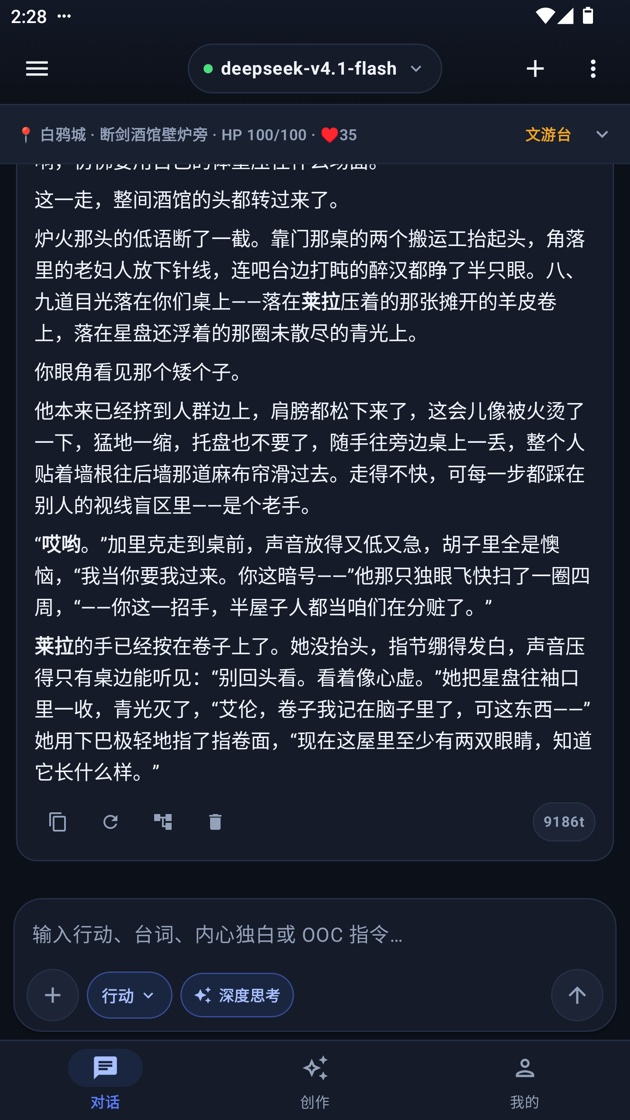
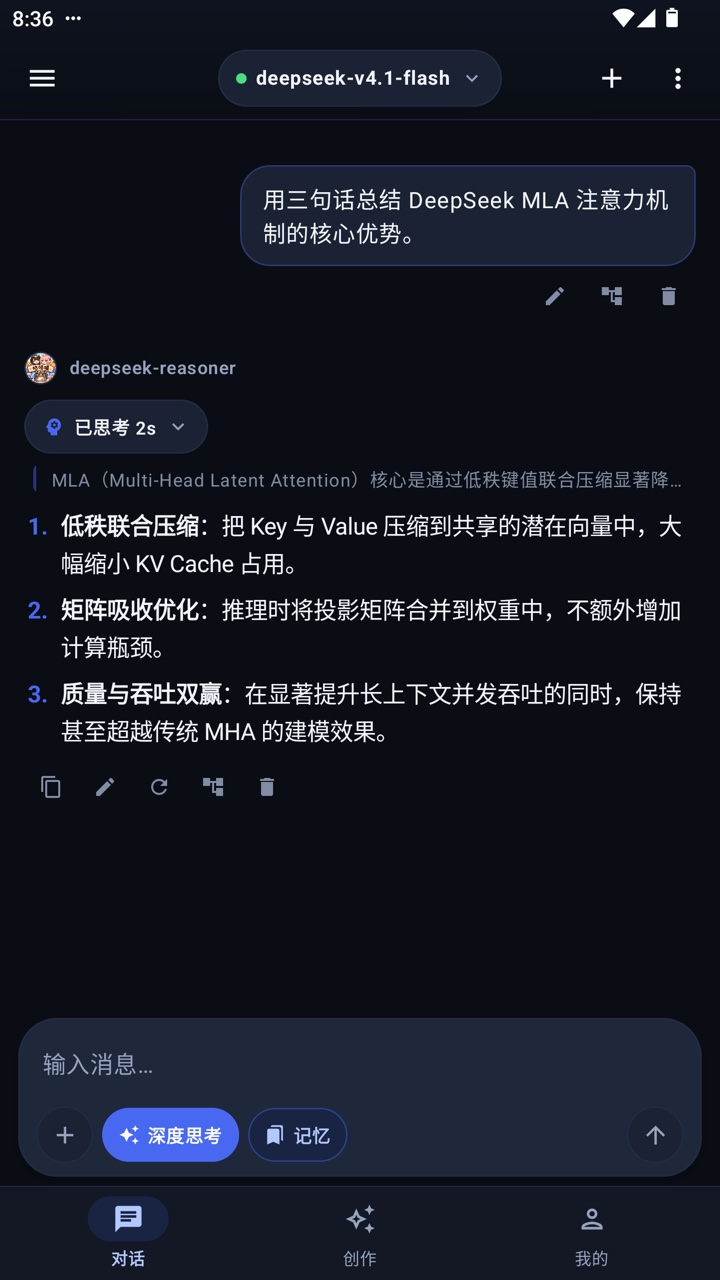
release: v0.3 - RP 3.0 SillyTavern/Chengguang upgrade, full-app fusion UI redesign & updated README screenshots

diff --git a/README.md b/README.md
@@ -11,30 +11,44 @@
 <table>
   <tr>
     <td align="center" width="33%">
-      <img src="docs/screenshots/chat_dark.jpg" width="240" alt="对话与文游主界面（暗色）" /><br />
-      <sub><b>对话 / 互动文游（暗色）</b></sub>
+      <img src="docs/screenshots/chat_dark.jpg" width="240" alt="DeepSeek 风格极简对话流与 R1 思考链" /><br />
+      <sub><b>极简对话流 · R1 深度思考链</b></sub>
     </td>
     <td align="center" width="33%">
-      <img src="docs/screenshots/rp_studio.jpg" width="240" alt="文游台与 RPG 数值面板" /><br />
-      <sub><b>文游台 · RPG 数值背包</b></sub>
+      <img src="docs/screenshots/rp_wizard.jpg" width="240" alt="酒馆封面卡横向轮播开局大厅" /><br />
+      <sub><b>酒馆封面卡大厅 · 多开场预览</b></sub>
     </td>
     <td align="center" width="33%">
-      <img src="docs/screenshots/external_import.jpg" width="240" alt="多平台外部对话与剧本导入" /><br />
-      <sub><b>多平台外部对话 / 剧本导入</b></sub>
+      <img src="docs/screenshots/rp_theater.jpg" width="240" alt="橙光双人立绘大舞台与深宫 HTML 状态栏" /><br />
+      <sub><b>橙光双人立绘剧场 · HTML 状态栏</b></sub>
     </td>
   </tr>
   <tr>
     <td align="center" width="33%">
-      <img src="docs/screenshots/studio_inspire.jpg" width="240" alt="创作工坊灵感广场" /><br />
-      <sub><b>创作工坊 · 灵感画廊</b></sub>
+      <img src="docs/screenshots/rp_frontend_romance.jpg" width="240" alt="前端美化换肤：心动恋爱手账与极简无框" /><br />
+      <sub><b>前端美化 · 恋爱手账 & 极简无框</b></sub>
     </td>
     <td align="center" width="33%">
-      <img src="docs/screenshots/image_create.jpg" width="240" alt="在线生图与 NovelAI 参数" /><br />
+      <img src="docs/screenshots/rp_regex_card.jpg" width="240" alt="酒馆正则脚本：消息内嵌 HTML 状态卡片" /><br />
+      <sub><b>酒馆正则 · 内嵌 HTML 状态卡</b></sub>
+    </td>
+    <td align="center" width="33%">
+      <img src="docs/screenshots/rp_studio_frontend.jpg" width="240" alt="6 标签文游台前端美化 5 套皮肤可视化编辑" /><br />
+      <sub><b>文游台 · 5 套皮肤可视化编辑</b></sub>
+    </td>
+  </tr>
+  <tr>
+    <td align="center" width="33%">
+      <img src="docs/screenshots/studio_tools.jpg" width="240" alt="创作工坊工具台与工作流" /><br />
+      <sub><b>创作工坊 · 工具台与工作流</b></sub>
+    </td>
+    <td align="center" width="33%">
+      <img src="docs/screenshots/image_create.jpg" width="240" alt="在线生图与 NovelAI 参数精调" /><br />
       <sub><b>在线生图 · NovelAI 工坊</b></sub>
     </td>
     <td align="center" width="33%">
-      <img src="docs/screenshots/light_mode.jpg" width="240" alt="浅色模式自适应界面" /><br />
-      <sub><b>浅色主题自适应</b></sub>
+      <img src="docs/screenshots/light_mode.jpg" width="240" alt="浅色瓷白主题自适应界面" /><br />
+      <sub><b>浅色瓷白主题自适应</b></sub>
     </td>
   </tr>
 </table>
@@ -48,18 +62,25 @@
 - **OpenAI Responses**（`/v1/responses`，支持推理摘要与用量流式事件）
 - **Anthropic Claude Messages**（`/v1/messages`，支持 Extended Thinking 思考块与多模态识图）
 - **Google Gemini Native**（`/v1beta/models/*:streamGenerateContent?alt=sse`、Imagen 与原生生图）
-- **双接入模式**：支持咕咕嘎服务端账号登录（含 2FA、内嵌人机验证与 WebView 登录）或直接在登录页进入「自定义 API 直连」，也可在 **我的 → API 接口管理** 中管理多个自定义接口并与服务端分组自由混用；API Key 使用 `EncryptedSharedPreferences` 本地加密存储。
+- **双接入模式**：支持咕咕嘎服务端账号登录（含 2FA、内嵌人机验证与 WebView 登录）或直接在登录页进入「自定义 API 直连」，也可在 **我的 → 自定义 API 通道** 中管理多个自定义接口并与服务端分组自由混用；API Key 使用 `EncryptedSharedPreferences` 本地加密存储。
 
-### 2. 对话、文游（RP）与小说三合一创作空间
-- **流畅流式对话**：后台 IO 线程实时解析 SSE 增量吐字，支持折叠深度思考链（Reasoning）、Markdown 表格与代码块一键复制、划词选中及多模态图片附件。
-- **上下文管理与长期记忆**：实时 Token 水位监控、自动/手动上下文压缩、中文分词 BM25 记忆召回、用户偏好记忆、账本与编年史归档。
-- **互动文游（RP）工坊**：内置多套剧本预设，支持角色卡与 NPC 好感度管理、HP/MP/金币/背包/任务状态面板、多面骰子掷骰（普通/优势/劣势）、互动分支选项按钮、分支回溯与多档位 SL 存档。
-- **长篇小说工坊**：开书向导、分章管理、独立世界书、三路剧情草稿、大纲共创、润色工具、护眼多纸张**纯净阅读模式**以及 `.txt` / `.md` 一键导出。
+### 2. DeepSeek 极简对话 × 酒馆 × 橙光三合一创作空间
+- **极简流式对话与上下文治理**：无框呼吸感阅读画布、左侧细轨 R1 可折叠深度思考链、悬浮胶囊输入框、时间分组会话抽屉（置顶 / 今天 / 昨天 / 近7天 / 更早）、可视化分段上下文水位条、自动压缩与中文 BM25 长期记忆召回。
+- **酒馆（SillyTavern）核心玩法**：
+  - 完整打通 **RP 世界书（Lorebook）** 常驻注入与关键词/实体动态召回；
+  - 支持 **多开场白（Alternate Greetings）** 左右滑切 `< 1/N >`、`{{char}}`/`{{user}}`/`{{scene}}` 宏替换、导演便签（Author's Note）与后置指令（Post-History）；
+  - 支持 **AI 回复在线编辑、原地续写（Continue）、AI 代写（Impersonate）**、流式内部标签自动防泄漏，以及 **SillyTavern V1/V2/V3 `.png` / `.json` 角色卡导入与带立绘 PNG 导出**；
+  - 内置 **酒馆正则美化引擎（兼容 `extensions.regex_scripts`）** 与 **离线 WebView HTML/CSS 沙箱渲染器**，支持消息内嵌 HTML 状态卡、自定义顶部前端状态栏模板（深宫凤仪 / 酒馆玻璃态 / 赛博终端 / 恋爱手账）及 `window.GuGuRp` 卡片按钮双向交互。
+- **橙光（AVG 互动剧场）核心玩法**：
+  - 支持一键切换 **橙光大立绘剧场 ↔ 对话流**，提供多角色同屏站位（主讲放大高亮 / 配角微暗）、**8 表情差分立绘**（按心情自动切换）与 **一键联动内置生图 API 生成角色立绘 / 表情差分 / 场景 CG**；
+  - 内置 **前端外观可视化编辑器**（5 套对话框皮肤：毛玻璃 / 橙光描金 / 极简无框 / 赛博光框 / 古风宣纸，实时调节透明度、背景遮罩、字号、强调色与立绘高度）、事件与场景 **CG 图鉴**、条件锁分支选项、好感 7 阶称号、回合数值播报、多结局图鉴及多档位 S/L 回溯与开新分支；
+  - 内置 8 套旗舰剧本预设（含《凤仪天下 · 深宫权谋》《第七站台 · 深夜清吧》等）及 d20 / CoC d100 跑团检定。
+- **长篇小说工坊**：题材封面卡开书向导、分章管理、独立世界书、三路剧情草稿、大纲共创、润色工具、护眼多纸张**纯净阅读模式**以及 `.txt` / `.md` 一键导出。
 
 ### 3. 多平台外部对话 / 剧本一键导入
 支持从主流 AI 与文字互动平台迁移历史记录，自动识别格式并支持预览筛选与目标模式切换（对话 / 文游 / 小说）：
 - **DeepSeek**：支持「导入官方 `.zip` / `conversations.json`」与「粘贴下载链接直接解析」，保留思考链与多分支回复。
-- **酒馆（SillyTavern）**：支持 V1/V2/V3 角色卡（`.png` / `.json`，含 `character_book` 世界书）、独立世界书 `.json`、聊天记录 `.jsonl`（保留多分支 `swipes` 与思考链）及打包 `.zip`。
+- **酒馆（SillyTavern）**：支持 V1/V2/V3 角色卡（`.png` / `.json`，含 `character_book` 世界书与 `regex_scripts` 正则脚本）、独立世界书 `.json`、聊天记录 `.jsonl`（保留多分支 `swipes` 与思考链）及打包 `.zip`。
 - **橙光 / 互动剧本**：支持导入 `.txt` / `.md` / `.json` 剧本文件或直接粘贴剧本文本，自动提取章节、角色台词与分支选项，直接以文游或小说续写。
 - **Chatbox / ChatGPT / Claude / Markdown**：支持 Chatbox JSON 备份、ChatGPT 与 Claude 官方导出包及常见 Markdown 对话记录。
 
@@ -68,8 +89,9 @@
 - **灵感与风格词库**：瀑布流精选提示词与风格词条，一键复制或携带比例直接「画同款」。
 - **多引擎生图与精修**：支持分组/模型快速折叠选择、参数预设库、参考图垫图、**NovelAI V3 / V4.5 / V5** 参数精调，以及 **涂抹重绘（Inpaint）、智能扩图（Outpaint）、文字改图、生成变体** 四合一画布编辑器。
 
-### 5. 双视觉风格与深浅色自适应
-- 提供 **咕咕嘎漫画风** 与 **经典极简** 两套视觉风格，支持 **跟随系统 / 浅色 / 深色** 主题以及 **简体中文 / English** 实时切换。
+### 5. 双视觉风格、自动检测更新与数据备份
+- 提供 **咕咕嘎** 与 **极简** 两套视觉风格，支持 **跟随系统 / 浅色 / 深色** 主题以及 **简体中文 / English** 实时切换。
+- **自动检测更新**：启动时静默检查 GitHub Releases 最新版本，支持一键应用内下载安装、跳转发布页或稍后更新。
 - 支持完整的本地 JSON 备份导出与恢复。
 
 ---
